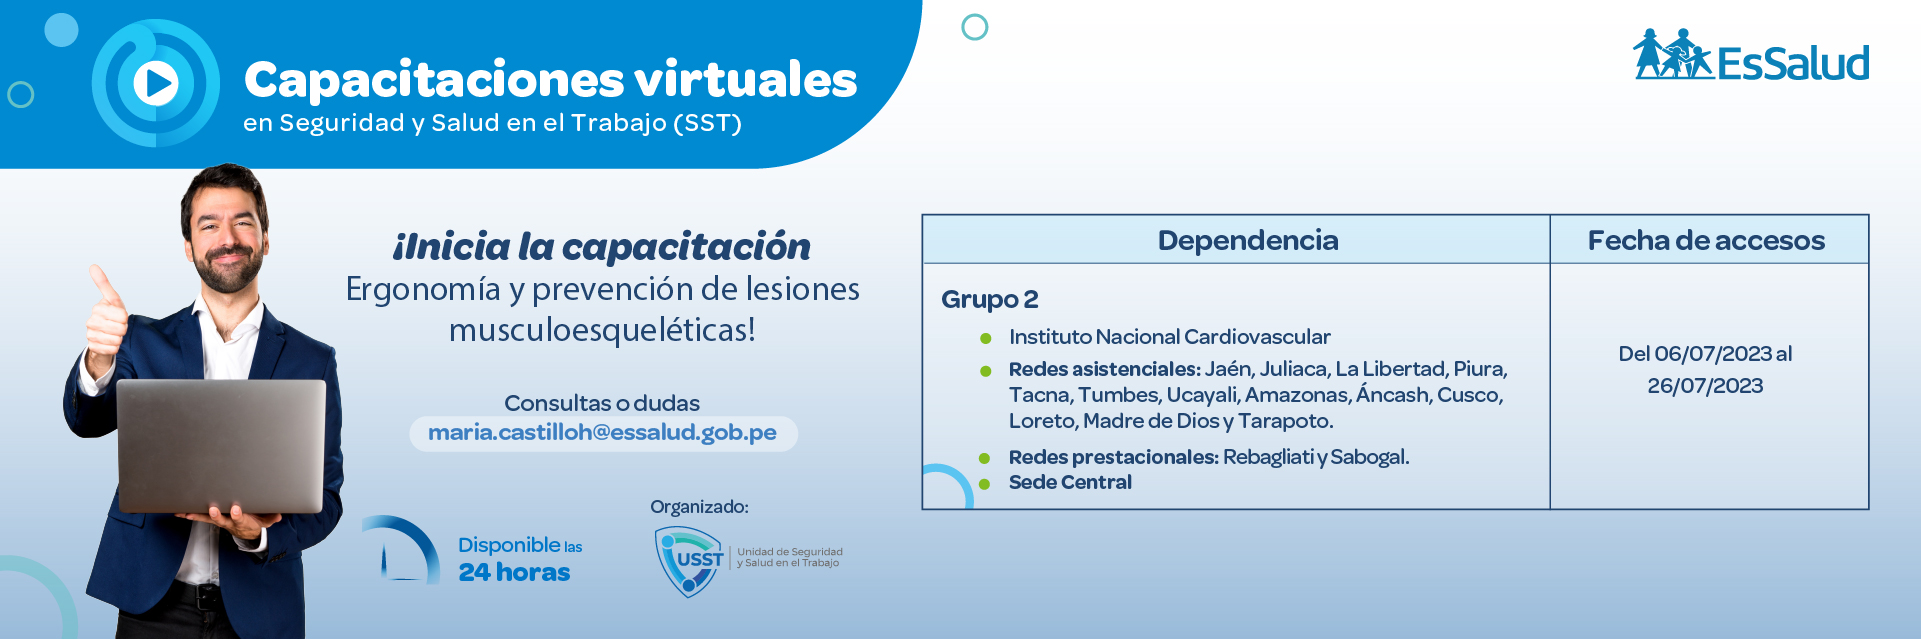
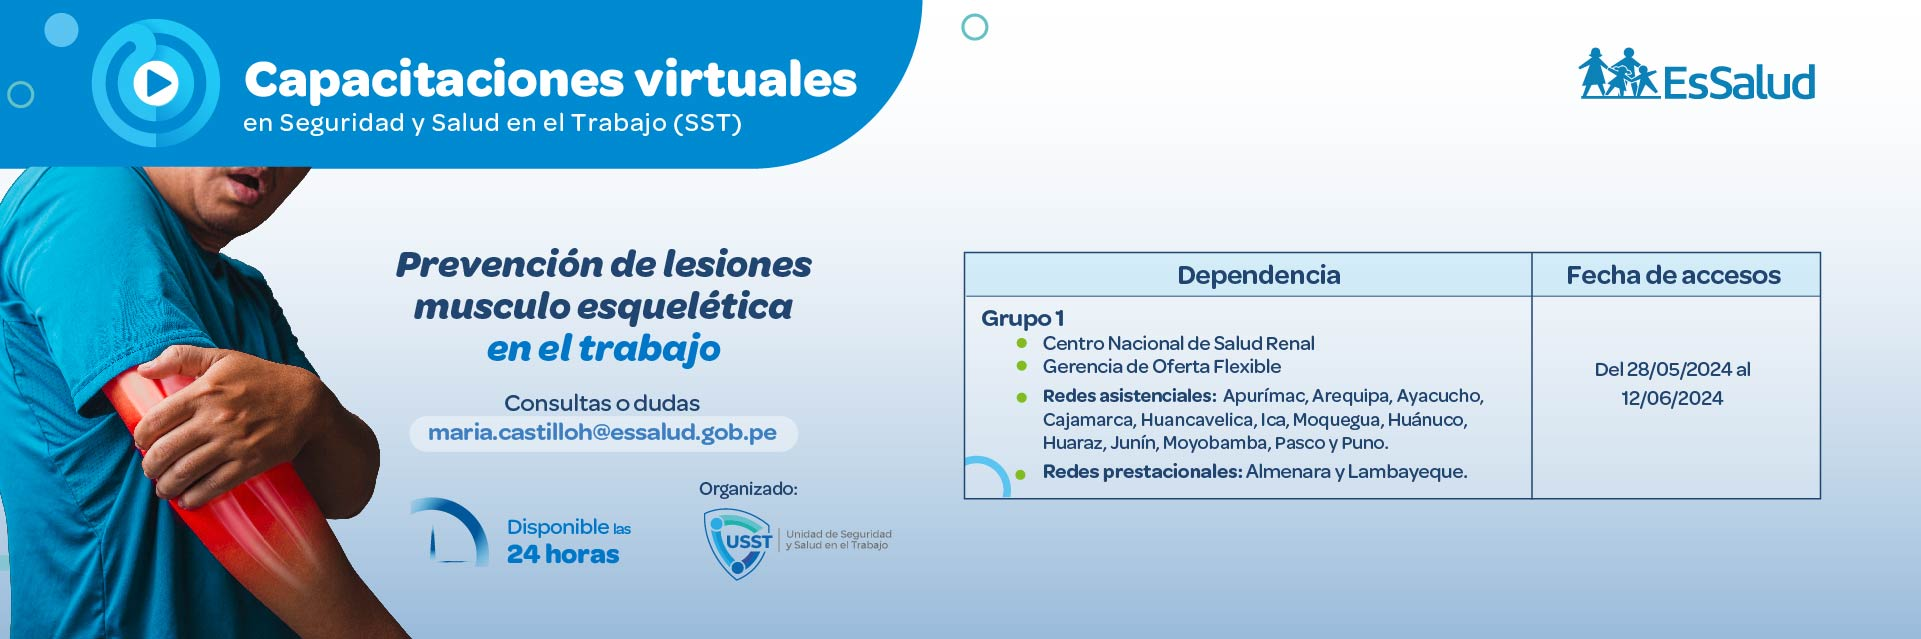
Actualiza imagen SST-Reciente de capacitacion

diff --git a/src/app/modules/menu-principal/components/show-sst/show-sst.component.html b/src/app/modules/menu-principal/components/show-sst/show-sst.component.html
@@ -1,5 +1,5 @@
 <div class="contenedor">
-    <img *ngIf="!form4Mobile" src="assets/images/SST-Reciente.jpg" class="image" alt="Logotipo" />
+    <img *ngIf="!form4Mobile" src="assets/images/SST-Reciente.png" class="image" alt="Logotipo" />
     <img *ngIf="form4Mobile" src="assets/images/SST-vertical.jpg" class="image" alt="Logotipo" />
     <div style="margin-top: 1%;display: grid;width: 100%;justify-content: space-around;">
         <a href="https://capacitacion.essalud.gob.pe/" target="_blank"><button class="ingresa" mat-raised-button>Ingresar al portal de capacitación</button></a>
